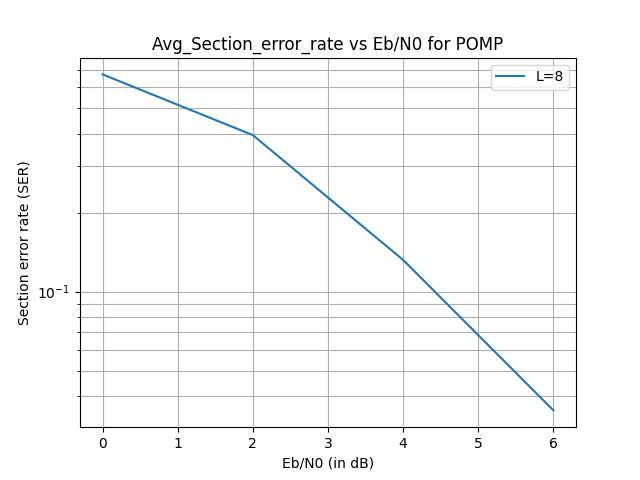
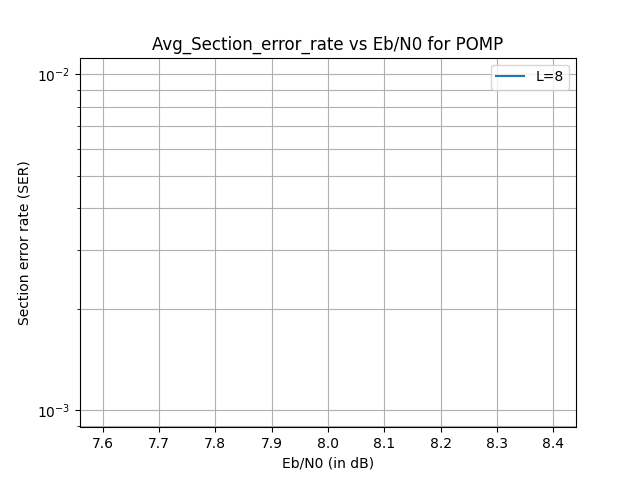
for synching among the GPUs

diff --git a/POMP/ParallelOMP_demodnc.py b/POMP/ParallelOMP_demodnc.py
@@ -1,0 +1,114 @@
+import torch
+device = torch.device('cuda:0')
+from scipy.optimize import minimize
+from torch import nn
+from torch import optim
+from scipy.io import loadmat
+import numpy as np
+import math
+
+y_data = loadmat("/home/dinesh/Research_work/Non_coherent_models/POMP/rx_signal.mat")
+
+def pskdemod(x,c):
+    out = torch.zeros(torch.numel(x),dtype=torch.cdouble)
+    for i in range(torch.numel(x)):
+        out[i] = c(int(x[i]))
+    return out 
+
+def argmin(y, A):
+    # Calculate the pseudoinverse of A
+    A_pinv = torch.pinverse(A).type(torch.cdouble)
+
+    # Compute the optimal x using the pseudoinverse
+    x = torch.matmul(A_pinv, y).type(torch.cdouble)
+
+    return x
+
+def pskmod(modulated_signal, num_phases):
+    # Compute the phase angles of the modulated signal
+    phase_angles = torch.angle(modulated_signal)
+    # Normalize the phase angles to [0, 2*pi]
+    phase_angles = (phase_angles + 2 * torch.pi) % (2 * torch.pi)
+    # Adjust the phase angles by pi/4
+    phase_angles += torch.pi / 4
+    # Wrap the adjusted phase angles to [0, 2*pi]
+    phase_angles = (phase_angles + 2 * torch.pi) % (2 * torch.pi)
+    # Compute the demodulated symbols
+    symbol_indices = (phase_angles * num_phases / (2 * torch.pi)).long()
+    # Perform Gray coding
+    symbol_indices ^= (symbol_indices >> 1)
+    return symbol_indices
+
+def ParallelOMP_demodnc(beta, y_cols, A, code_params, c, delim, cols, BTB):
+    P,L,M,n,K = map(code_params.get, ['P','L','M','n','K'] )
+    number_of_paths, number_of_seeds= map(code_params.get, ['no_paths', 'no_seeds'] )
+
+    # innerProducts = (A.T).mm(y_cols)
+    # _,seed_loc1=torch.topk(torch.real(innerProducts),number_of_paths,dim=0)
+    # _,seed_max_abs_col=torch.topk(torch.abs(innerProducts),number_of_paths,dim=0)
+
+    rx_columns_final = torch.zeros(L,cols).to(device)
+    rx_integers_final = torch.zeros(L,cols).to(device)
+
+    # msg_final = torch.zeros(int(L*M),cols).to(device)
+    sec_err = 0
+    blk_err = 0
+    for q in range(cols):
+        y = y_cols[:,q].reshape(-1,1)
+        # Using a pre-determined message just for testing
+        # y_ = np.array(y_data['rx_signal'])
+        # y = torch.from_numpy(y_).reshape(-1,1).type(torch.cdouble).to(device)
+
+        innerProducts = (A.T.conj()).matmul(y)
+        innerProducts_withSymbols = innerProducts.matmul(c.reshape(1,-1).conj())
+        innerProductsLong = (innerProducts_withSymbols.T).reshape(-1,1)
+
+        _,seed_loc1=torch.topk(torch.real(innerProducts),number_of_paths,dim=0)
+        _,seed_max_abs_col=torch.topk(torch.abs(innerProducts),number_of_paths,dim=0)        
+        _,seed_loc2=torch.topk(torch.abs(innerProductsLong),number_of_paths,dim=0)
+
+        selected_integer_matrix=torch.zeros(L,number_of_paths).to(device)
+        selected_column_matrix=torch.zeros(L,number_of_paths).to(device)
+        residue=y.repeat(1,number_of_paths)
+        
+        for p in range(number_of_paths):
+            rx_columns=[]
+            rx_integers=[]
+            innerProducts_copy=innerProducts.to(device)
+            mask=torch.ones(n**2,1).to(device)
+            for jj in range(L):
+                if K == 0:
+                    assert "Code has been written only for Modulated SPARCs"
+                else:
+                    if jj==0:
+                        sel_col=seed_max_abs_col[p]
+                    else:
+                        sel_col=torch.argmax(torch.abs(innerProducts_copy))
+
+                    rx_columns.append(sel_col.reshape(1))
+                    rx_symbols = argmin(y,A[:,rx_columns])
+                    residue[:,p]= (y- A[:,rx_columns].matmul(rx_symbols)).reshape([-1,])
+                    innerProducts_copy= (A.T.conj()).matmul(residue[:,p].reshape([-1,1]))
+                    block_loc=torch.nonzero(sel_col<=delim[1,:])[0]
+                    mask[int(delim[0,block_loc]):int(delim[1,block_loc])]=0
+                    innerProducts_copy=torch.mul(innerProducts_copy,mask)
+
+            selected_column_matrix[:,p]=torch.cat(rx_columns)
+            selected_integer_matrix[:,p]=pskmod(rx_symbols,K).reshape([-1,])   
+        min_residue_loc=torch.argmin(torch.norm(residue))
+        rx_columns=selected_column_matrix[:,min_residue_loc]
+        rx_integers=selected_integer_matrix[:,min_residue_loc]
+
+        [rx_columns_final[:,q],ordr]=torch.sort(rx_columns)
+        rx_integers_final[:,q] = rx_integers[ordr]
+        
+        error = torch.numel((~torch.eq(rx_columns_final[:,q],beta[:,q].nonzero().reshape(-1,))).nonzero())
+        sec_err = sec_err + error
+        blk_err = blk_err + math.ceil(error/L)
+        
+    sec_err_rate = sec_err/(L*cols)
+    blk_err_rate = blk_err/(cols)    
+    # print("Done")
+
+    return sec_err_rate, blk_err_rate
+

diff --git a/POMP/ParallelOMP.py b/POMP/ParallelOMP.py
@@ -77,6 +77,14 @@ def awgn_channel(in_array, awgn_var, cols,K,rand_seed=None):
         raise Exception("Unknown input type '{}'".format(in_array.dtype))
     return y   
 
+'''def pilot(beta,delim):
+    beta_c = beta.clone()
+    beta_1 = beta_c[int(delim[0,0]):int(delim[1,0]+1),:]
+    beta_1[beta_1.nonzero()]=1
+    beta_c[int(delim[0,0]):int(delim[1,0]+1),:] = beta_1
+    return beta
+'''
+
 device = torch.device('cuda:0') # choose 'cpu' or 'cuda'
 
 data=loadmat("/home/dinesh/Research_work/Modulated_SPARC_codes/MUB_2_6.mat")
@@ -94,7 +102,7 @@ for i in range(n):
 A = A.to(device)
 
 sections = torch.Tensor([8])               # Number of Sections
-EbN0_dB = torch.Tensor([8])
+EbN0_dB = torch.arange(0,8,2)
 paths=2
 number_of_seeds=math.floor(math.sqrt(n))
 randomPhase = 0
@@ -175,6 +183,7 @@ for l in range(torch.numel(sections)):
         
         for p in range(itr):
             beta,c = gen_msg_mod_torch(code_params,cols)
+            # beta_c = pilot(beta,delim)
             beta = beta.to(device)
             c = c.to(device)
 
@@ -182,7 +191,6 @@ for l in range(torch.numel(sections)):
             # beta_csv = pd.read_csv("/home/saidinesh/Research_work/Modulated_SPARCs/debug_csv_files/beta.csv", sep=",", header=None)
             # beta_np = beta_csv.applymap(lambda s: complex(s.replace('i', 'j'))).values
             # beta =  torch.from_numpy(beta_np).type(torch.cdouble).to(device)
-            
             x = torch.mm(A,beta)
             y = awgn_channel(x,awgn_var,cols,K,rand_seed=None)
 
@@ -203,6 +211,6 @@ ax.set_title('Avg_Section_error_rate vs Eb/N0 for POMP')
 ax.set_xlabel('Eb/N0 (in dB)')
 ax.set_ylabel('Section error rate (SER)') 
 plt.grid(True, which="both") 
-plt.savefig("POMP_SER_1e4.png")   
+plt.savefig("POMP_SER_1e3.png")   
 
 print("Done")

diff --git a/POMP/gen_msg_mod_torch.py b/POMP/gen_msg_mod_torch.py
@@ -93,12 +93,15 @@ def gen_msg_mod_torch(code_params,cols):
 
     for i in range(cols):
         bits_in = torch.randint(2, size=[bit_len])
+        
         if K==1 or K==2:
             beta0 = torch.zeros(N)    #length of msg_vector = 1000 * 32 = 32000
         else:
             beta0 = torch.zeros(N, dtype=torch.cdouble)
 
         for l in range(L):
+            # if l == 0:
+            #     bits_sec = torch.zeros(logM)
             bits_sec = bits_in[l*sec_size : l*sec_size + logM]  # logM bits used for selection the location of non-zero values
             assert 0<logM<64
             idx = bits_sec.dot(1 << torch.flip(torch.arange(logM),[0,]))
